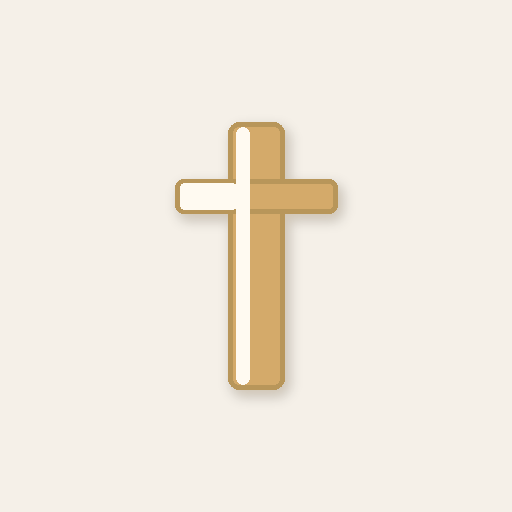
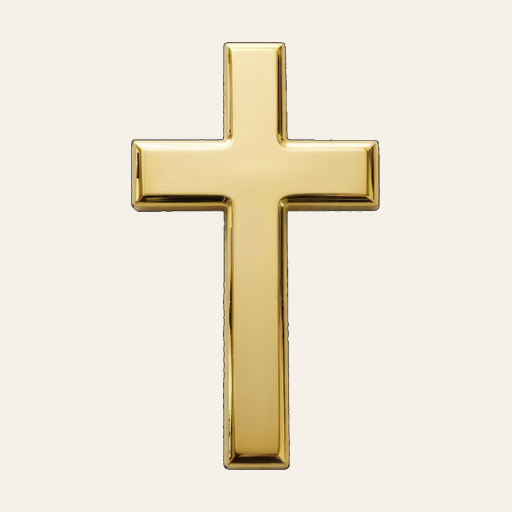
Add files via upload

Changed region(s): [[0.25, 0.0625, 0.75, 0.9375]]

diff --git a/index.html b/index.html
@@ -526,30 +526,30 @@ window.APP_CONFIG = {
 <meta name="application-name" content="가톨릭길동무">
 <meta name="mobile-web-app-capable" content="yes">
 <meta name="theme-color" content="#f5f0e8">
-<link rel="manifest" href="manifest.json?v=V3-27">
-<link rel="apple-touch-icon" sizes="180x180" href="icon-512x512.png?v=V3-27">
-<link rel="apple-touch-icon-precomposed" sizes="180x180" href="icon-512x512.png?v=V3-27">
+<link rel="manifest" href="manifest.json?v=V3-28">
+<link rel="apple-touch-icon" sizes="180x180" href="icon-512x512.png?v=V3-28">
+<link rel="apple-touch-icon-precomposed" sizes="180x180" href="icon-512x512.png?v=V3-28">
 <meta name="format-detection" content="telephone=no">
 <meta name="description" content="가톨릭길동무 - 가톨릭 신앙생활 종합 앱">
 <meta property="og:type" content="website">
 <meta property="og:site_name" content="가톨릭길동무">
 <meta property="og:title" content="가톨릭길동무">
 <meta property="og:description" content="성지 · 성당 · 기도문 · 순례길 · 가톨릭 웹사이트 안내">
-<meta property="og:image" content="icon-512x512.png?v=V3-27">
+<meta property="og:image" content="icon-512x512.png?v=V3-28">
 <meta property="og:image:width" content="512">
 <meta property="og:image:height" content="512">
 <meta name="twitter:card" content="summary">
 <meta name="twitter:title" content="가톨릭길동무">
 <meta name="twitter:description" content="성지 · 성당 · 기도문 · 순례길 · 가톨릭 웹사이트 안내">
-<meta name="twitter:image" content="icon-512x512.png?v=V3-27">
+<meta name="twitter:image" content="icon-512x512.png?v=V3-28">
 <title>가톨릭길동무</title>
-<link rel="icon" type="image/png" sizes="192x192" href="icon-192x192.png?v=V3-27">
+<link rel="icon" type="image/png" sizes="192x192" href="icon-192x192.png?v=V3-28">
 <link rel="preconnect" href="https://fonts.googleapis.com">
 <link rel="stylesheet" href="https://cdnjs.cloudflare.com/ajax/libs/font-awesome/6.4.0/css/all.min.css">
 <link href="https://fonts.googleapis.com/css2?family=Noto+Sans+KR:wght@400;500;600;700&display=swap" rel="stylesheet">
 
 <style id="oai-initial-bg">html,body{margin:0;width:100%;height:100%;min-height:100%;background:#f5f0e8;overflow:hidden;color-scheme:light;}#cover{background:#f5f0e8;min-height:100%;}#app{background:#f8f6f2;display:none;}</style>
-<link rel="stylesheet" href="style.css?v=V3-27">
+<link rel="stylesheet" href="style.css?v=V3-28">
 </head>
 <body>
 <div id="missa-view" role="dialog" aria-modal="true" aria-label="매일미사">
@@ -723,30 +723,30 @@ window.APP_CONFIG = {
         <div class="ios-safari-step">
           <b>1</b>
           <span>카카오톡 하단 버튼 4개 중 <strong>오른쪽 끝 버튼</strong>을 누르세요.</span>
-          <img data-src="ios-install-step1-kakao-bottom-buttons.png?v=V3-27" alt="카카오톡 오른쪽 아래 버튼 모양" width="945" height="248" loading="lazy" decoding="async">
+          <img data-src="ios-install-step1-kakao-bottom-buttons.png?v=V3-28" alt="카카오톡 오른쪽 아래 버튼 모양" width="945" height="248" loading="lazy" decoding="async">
         </div>
         <div class="ios-safari-step">
           <b>2</b>
           <span>공유 화면에서 <strong>Safari로 열기</strong>를 누르세요.</span>
-          <img data-src="ios-install-step2-safari-open.png?v=V3-27" alt="Safari로 열기 버튼" width="880" height="755" loading="lazy" decoding="async" fetchpriority="low">
+          <img data-src="ios-install-step2-safari-open.png?v=V3-28" alt="Safari로 열기 버튼" width="880" height="755" loading="lazy" decoding="async" fetchpriority="low">
         </div>
         <div class="ios-safari-step">
           <b>3</b>
           <span>Safari로 열린 뒤, 화면 <strong>오른쪽 아래 ··· 버튼</strong>을 누르세요.</span>
           <div class="ios-safari-shot ios-safari-shot-more">
-            <img data-src="KakaoTalk_20260514_134255658_04.jpg?v=V3-27" alt="Safari 오른쪽 아래 더보기 버튼" width="960" height="307" loading="lazy" decoding="async">
+            <img data-src="KakaoTalk_20260514_134255658_04.jpg?v=V3-28" alt="Safari 오른쪽 아래 더보기 버튼" width="960" height="307" loading="lazy" decoding="async">
             <i class="ios-gold-highlight" aria-hidden="true"></i>
           </div>
         </div>
         <div class="ios-safari-step">
           <b>4</b>
           <span>열린 메뉴에서 <strong>공유</strong>를 누르세요.</span>
-          <img data-src="ios-install-step3-share-menu.png?v=V3-27" alt="Safari 공유 버튼" width="750" height="580" loading="lazy" decoding="async" fetchpriority="low">
+          <img data-src="ios-install-step3-share-menu.png?v=V3-28" alt="Safari 공유 버튼" width="750" height="580" loading="lazy" decoding="async" fetchpriority="low">
         </div>
         <div class="ios-safari-step">
           <b>5</b>
           <span>목록을 아래로 내려 <strong>홈 화면에 추가</strong>를 누르세요.</span>
-          <img data-src="ios-install-step4-home-screen.png?v=V3-27" alt="홈 화면에 추가 버튼" width="865" height="750" loading="lazy" decoding="async" fetchpriority="low">
+          <img data-src="ios-install-step4-home-screen.png?v=V3-28" alt="홈 화면에 추가 버튼" width="865" height="750" loading="lazy" decoding="async" fetchpriority="low">
         </div>
       </div>
     </div>
@@ -811,7 +811,7 @@ window.APP_CONFIG = {
   📲 홈 화면에 앱 설치하기
 </button>
 </div>
-<script src="app.js?v=V3-27"></script>
+<script src="app.js?v=V3-28"></script>
 <div id="oai-category-entry-veil" aria-hidden="true"></div>
 <div id="app"><div id="tabbar"><button id="tab-btn-nearby" class="tab-btn" data-tab="nearby"><span class="tab-icon">📍</span><span id="tab-nearby-lbl">내주변</span></button><button id="tab-btn-list" class="tab-btn" data-tab="list"><span class="tab-icon">📋</span><span id="tab-list-lbl">목록</span></button><button id="tab-btn-region" class="tab-btn" data-tab="region"><span class="tab-icon">🔍</span>지역검색
     </button><button id="tab-btn-route" class="tab-btn" data-tab="route"><span class="tab-icon">🧭</span>길찾기
@@ -887,13 +887,13 @@ window.APP_CONFIG = {
     </div>
   </div>
 </div>
-<script src="web.js?v=V3-27"></script>
+<script src="web.js?v=V3-28"></script>
 
 <div id="qna-view" role="dialog" aria-modal="true" aria-label="문의·건의" class="module-view"><div class="module-bar qna"><div class="module-bar-main"><div class="module-bar-ico">✝</div><div class="module-bar-txt"><div class="module-bar-title">문의·건의</div><div class="module-bar-sub">질문, 오류, 수정요청을 남겨주세요</div></div></div><button id="qna-close-btn" class="module-close" aria-label="문의·건의 닫기">×</button></div><div class="qna-body"><div class="qna-tabs"><button id="qna-tab-write" class="qna-tab on" type="button">작성</button></div><div class="qna-list" id="qna-list"></div></div></div>
 
-<script src="patches.js?v=V3-27"></script>
+<script src="patches.js?v=V3-28"></script>
 
-<script src="sw-update.js?v=V3-27"></script>
+<script src="sw-update.js?v=V3-28"></script>
 
 
 

diff --git a/sw.js b/sw.js
@@ -1,22 +1,22 @@
-/* 가톨릭길동무 Service Worker - V3-27
+/* 가톨릭길동무 Service Worker - V3-28
    iOS viewport height stability patch
    캐시를 매번 삭제하지 않고, 버전 변경 시 오래된 캐시만 정리합니다.
    localStorage/사용자 설정은 건드리지 않습니다. */
-const CACHE_VERSION = 'catholic-way-V3-27';
+const CACHE_VERSION = 'catholic-way-V3-28';
 /* 다이어트 1: 첫 실행에 꼭 필요한 앱 셸만 선캐시합니다.
    성당/성지/피정의집/기도문/관구교구/문의 페이지는 versioned fetch 시 cacheFirst로 저장됩니다. */
 const APP_SHELL = [
   './',
   './index.html',
-  './style.css?v=V3-27',
-  './app.js?v=V3-27',
-  './web.js?v=V3-27',
-  './patches.js?v=V3-27',
-  './sw-update.js?v=V3-27',
-  './manifest.json?v=V3-27',
-  './icon-192x192.png?v=V3-27',
-  './icon-512x512.png?v=V3-27',
-  './icon-512x512-maskable.png?v=V3-27',
+  './style.css?v=V3-28',
+  './app.js?v=V3-28',
+  './web.js?v=V3-28',
+  './patches.js?v=V3-28',
+  './sw-update.js?v=V3-28',
+  './manifest.json?v=V3-28',
+  './icon-192x192.png?v=V3-28',
+  './icon-512x512.png?v=V3-28',
+  './icon-512x512-maskable.png?v=V3-28',
 ];
 
 

diff --git a/sw-update.js b/sw-update.js
@@ -10,7 +10,7 @@
   // SW_BUILD_VERSION:  SW 등록·캐시 키용 전체 버전 (sw.js BUILD_VERSION과 일치해야 함)
   // ★ 버전 업그레이드 시 두 값 모두 수정, sw.js BUILD_VERSION과 SW_BUILD_VERSION을 동일하게 맞출 것
   var APP_VERSION = 'V2';
-  var SW_BUILD_VERSION = 'V3-27';
+  var SW_BUILD_VERSION = 'V3-28';
   window.APP_VERSION = APP_VERSION;
 
   function now(){ return Date.now ? Date.now() : new Date().getTime(); }
